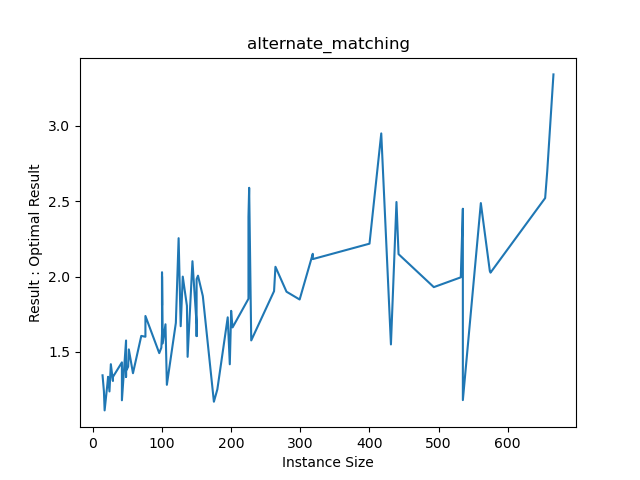
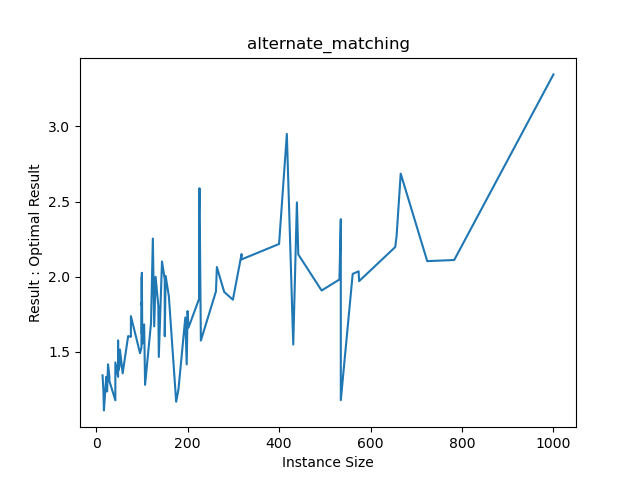
Added plots and SD_orig method

diff --git a/plots.py b/plots.py
@@ -1,0 +1,50 @@
+import matplotlib.pyplot as plt
+import json
+import pandas as pd
+
+
+
+algos = {
+    'DFJ': {},
+    'SD_modified': {},
+    'LK': {},
+    'SD': {}
+}
+algos['DFJ'] = json.load(open('iterative_exact_optim.json'))
+algos['SD_modified'] = json.load(open('alternate_matching_optim.json'))
+algos['LK'] = json.load(open('lk_tsp_optim.json'))
+algos['SD'] = json.load(open('alternate_matching_orig_optim.json'))
+
+algos['DFJ']['optim_res'] = [1 for _ in range(len(algos['LK']['sizes']))]
+algos['DFJ']['perf_res'] += [None for _ in range(len(algos['LK']['sizes']) - len(algos['DFJ']['perf_res']))]
+df = pd.DataFrame(None, index = range(len(algos['LK']['sizes'])), columns= ['size'] + [f'{a}_{f}' for a in algos for f in ['optimality', 'performance']])
+
+df['size'] = algos['LK']['sizes']
+for algo in algos:
+    df[f'{algo}_optimality'] = algos[algo]['optim_res']
+    df[f'{algo}_performance'] = algos[algo]['perf_res']
+
+df['bin'] = df['size'] - (df['size']%30);
+# print(df)
+df = df.groupby('bin').mean()
+df['DFJ_performance'].fillna(450, inplace=True)
+
+
+fig = df.plot(y=['DFJ_optimality', 'SD_modified_optimality', 'LK_optimality', 'SD_optimality'], kind='line', figsize=(10,10))
+fig.set_xlabel('Size of the problem')
+
+fig.set_xscale('log')
+fig.grid(True)
+fig.set_ylabel('Optimality ratio')
+fig.set_title('Optimality ratio of the algorithms')
+fig.get_figure().savefig('optimality.png')
+
+
+
+fig = df.plot(y=['DFJ_performance', 'SD_modified_performance', 'LK_performance', 'SD_performance'], kind='line', figsize=(10,10))
+fig.set_xlabel('Size of the problem')
+fig.set_ylabel('Time (s)')
+fig.grid(True)
+fig.set_title('Performance of the algorithms')
+fig.get_figure().savefig('performance.png')
+

diff --git a/tsp_solvers.py b/tsp_solvers.py
@@ -9,7 +9,7 @@ TMAX = 300
 class Tsp:
     def __init__(self, A):
         self.base = "greedy"  # "random" or "greedy"
-        self.numHeuristics = 2 # 1 or 2
+        self.numHeuristics = 1 # 1 or 2
         self.sol = []
         self.cost = 0
         self.adj = A.T.tolist()
@@ -273,10 +273,10 @@ class Tsp:
         while True:
             if time.time() - tStart > TMAX:
                 break
-                
-            self.reduceSolution2()
-            if self.numHeuristics == 2:
-                self.reduceSolution()
+            # if self.numHeuristics == 2:
+            self.reduceSolution() 
+            # self.reduceSolution2()
+            
 
             if self.cost < prevCost:
                 prevCost = self.cost
@@ -391,7 +391,7 @@ def iterative_exact(A):
 
     return value(model.objective)
 
-def alternate_matching(A):
+def alternate_matching_orig(A):
     prob = Tsp(A)
     return prob.getSolution("heuristic")
 import json

diff --git a/main.py b/main.py
@@ -1,12 +1,13 @@
 from testbed import TestBed
-from tsp_solvers import one_shot_exact, iterative_exact, alternate_matching, Tsp, lk_tsp
+from tsp_solvers import one_shot_exact, iterative_exact, alternate_matching_orig, Tsp, lk_tsp
 import numpy as np
 
 if __name__ == "__main__":
     testbed = TestBed('testcases')
-    # testbed.test(iterative_exact)
-    testbed.test(alternate_matching)
+    
+    testbed.test(alternate_matching_orig)
     # testbed.test(lk_tsp)
+    # testbed.test(iterative_exact)
     # testbed.test(lk_tsp)
     # t = Tsp('./tc5.txt')
     # t.getHeuristicSolution()

diff --git a/testbed.py b/testbed.py
@@ -9,7 +9,7 @@ import os
 import json
 import time
 
-MAXSIZE = 700
+MAXSIZE = 1000
 MAXTIME = 500
 class TestBed:
     def __init__(self, tc_folder):
